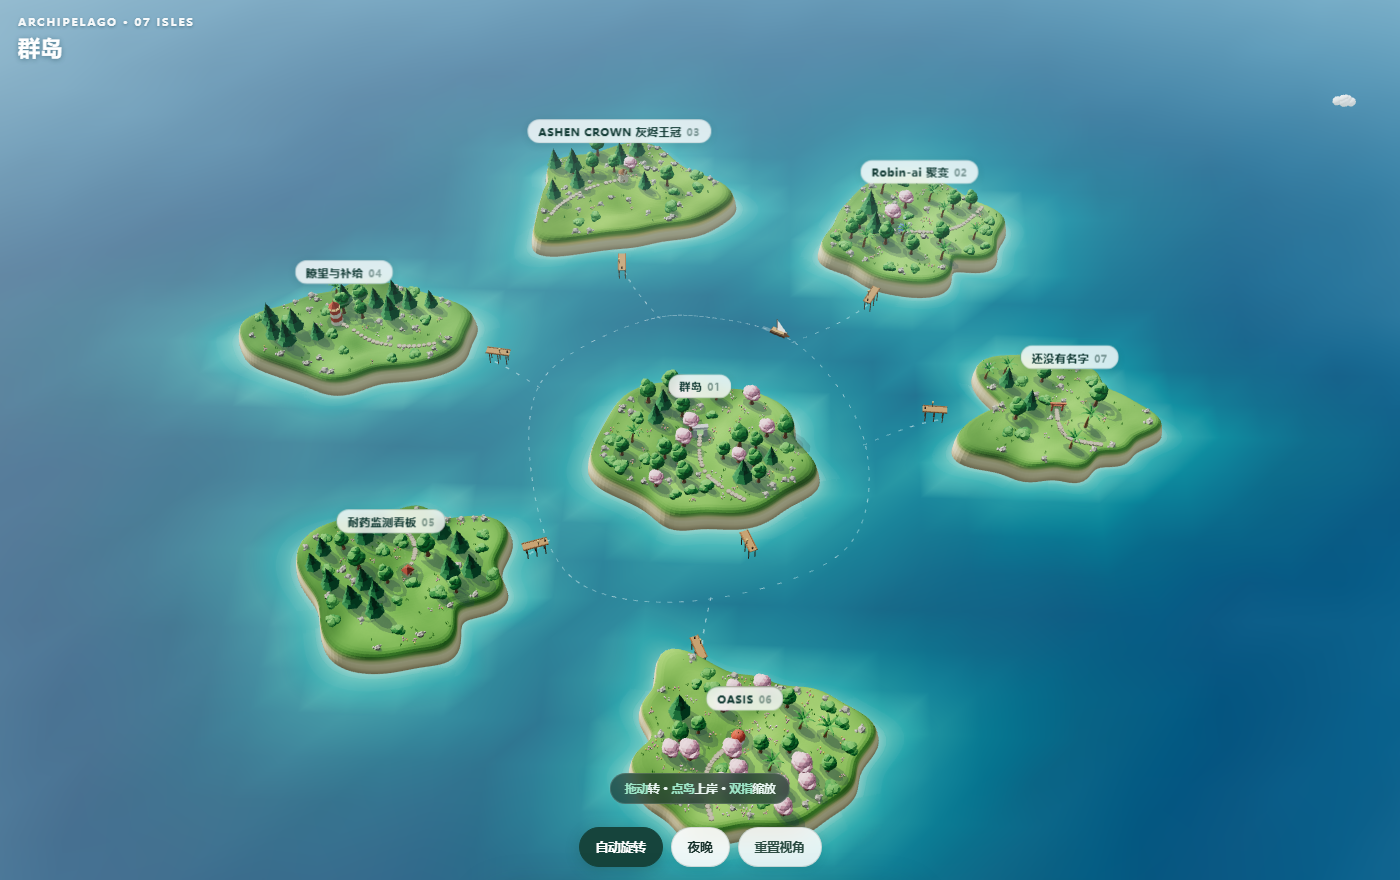
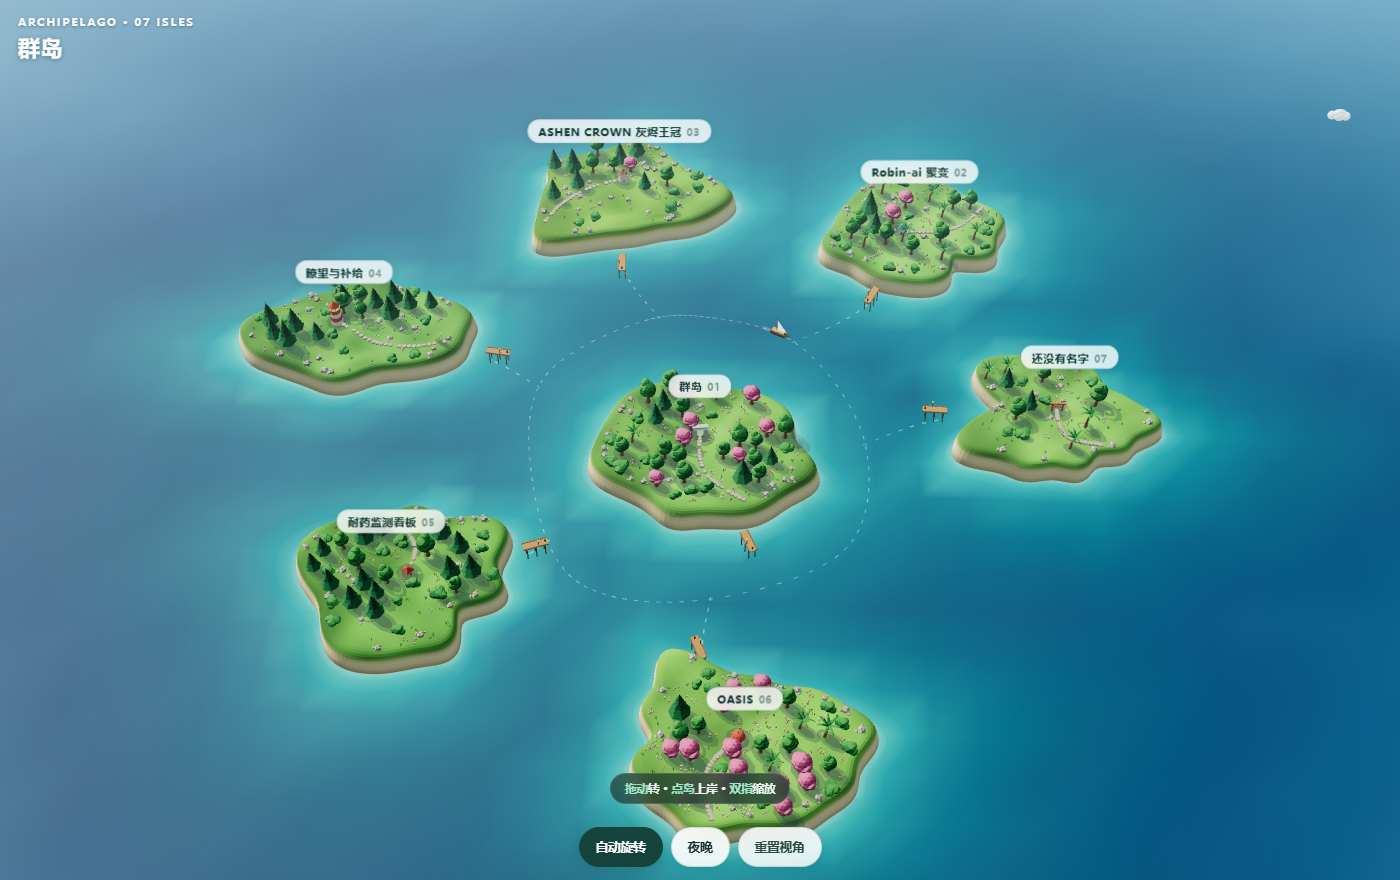
树冠色板压深：樱/阔叶/针叶/棕榈/灌木五套整体降明度提饱和，拉开与草地层次

diff --git a/index.html b/index.html
@@ -579,11 +579,13 @@ function setKeyDir(dir){
    四种轮廓各自拉开（阔叶=团、樱=伞、松=塔、棕榈=羽），全岛共用一套三档色阶。 */
 
 /* 树色板：同一色相家族取暗/中/亮三档，色差交给光照，不再靠随机换绿 */
-var FOL_D='#3a7a42', FOL_M='#4a9a4e', FOL_L='#66b65a';   // 阔叶
-var PIN_D='#26573d', PIN_M='#32754b', PIN_L='#429056';   // 针叶（偏冷偏深）
-var CHR_D='#d4859f', CHR_M='#e9a8bd', CHR_L='#f9cddb';   // 樱（原色过浅，被主光打到发白）
-var PLM_D='#2b7040', PLM_M='#3b8f45', PLM_L='#54aa4d';   // 棕榈
-var BSH_D='#357a3e', BSH_M='#48994c', BSH_L='#6cb95e';   // 灌木
+/* 亮档是主光直射面，ACES(0.95/1.16) 提完还要落在「比草地深」的区间 ——
+   亮档一旦和草地同明度，树冠就融进背景没有层次（2026-11-14 老大反馈发白） */
+var FOL_D='#2e6638', FOL_M='#3f8c44', FOL_L='#57a34b';   // 阔叶
+var PIN_D='#1f4c34', PIN_M='#2b6b43', PIN_L='#39824d';   // 针叶（偏冷偏深）
+var CHR_D='#a8436a', CHR_M='#c25f87', CHR_L='#d97fa0';   // 樱（原 #f9cddb 近白，整体压深两档）
+var PLM_D='#235c35', PLM_M='#327c3d', PLM_L='#469744';   // 棕榈
+var BSH_D='#2b6835', BSH_M='#3c8842', BSH_L='#55a150';   // 灌木
 
 /* ico 球：低模树冠的正确基元。三角形接近等边，没有球的极点收束 */
 function icoG(rad, det){ return new THREE.IcosahedronGeometry(rad, det===undefined?1:det); }
